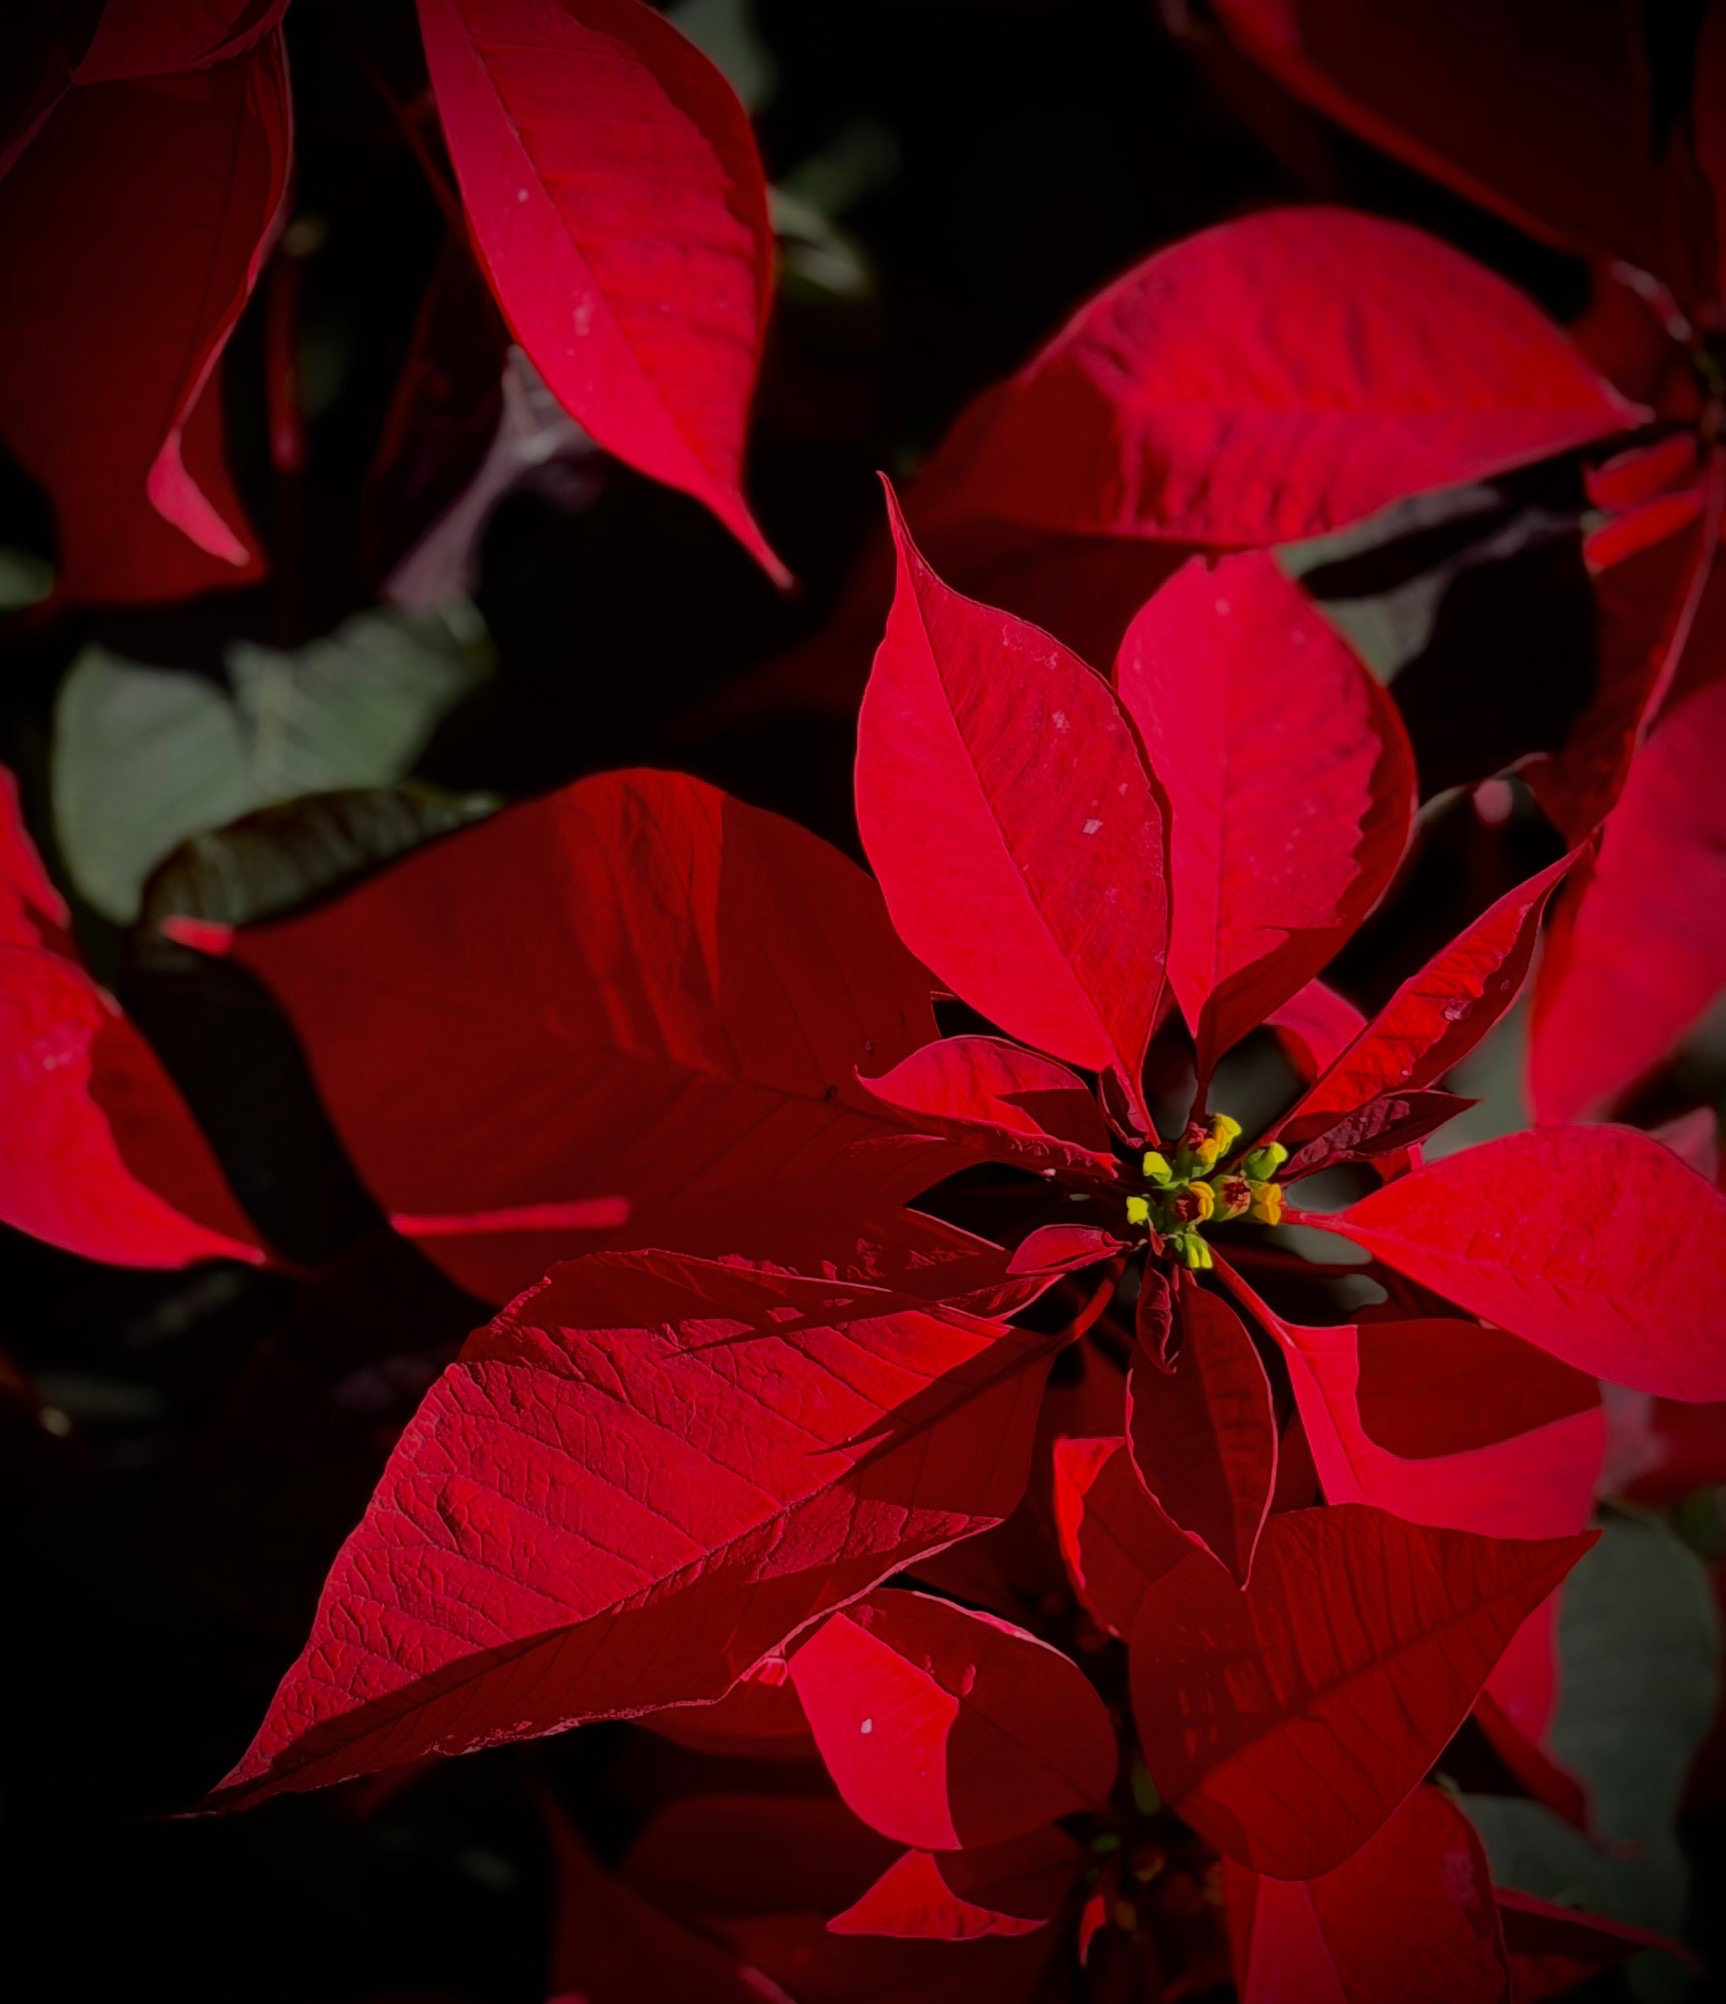
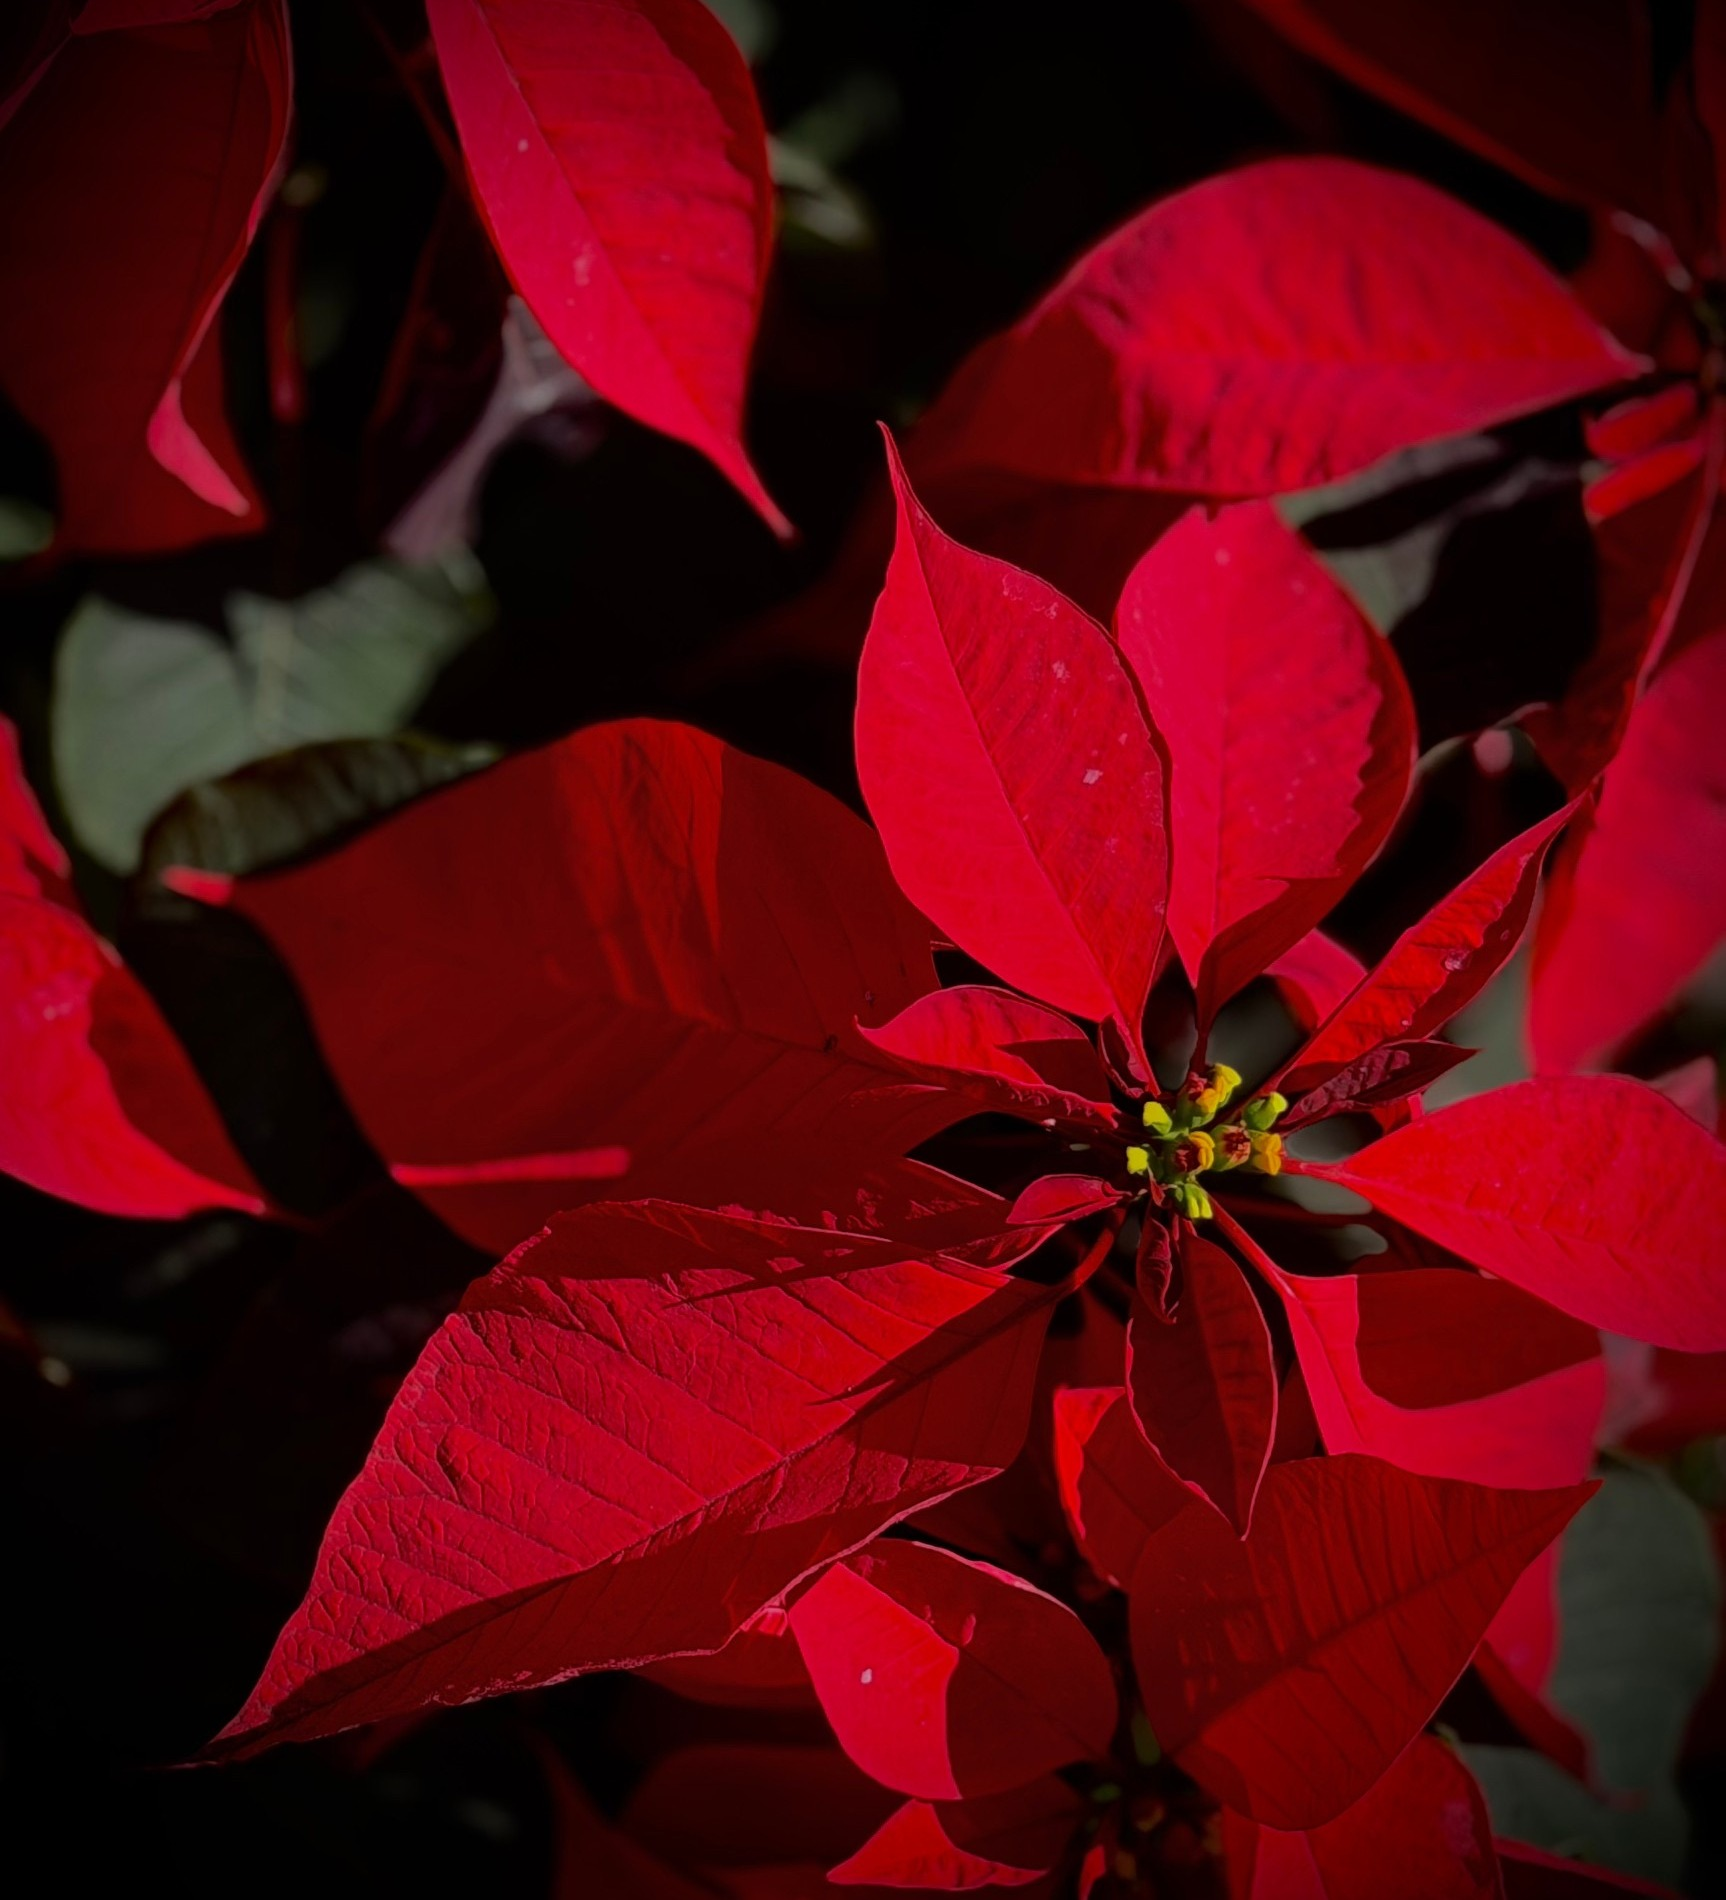
cambios

diff --git a/src/pages/Home.jsx b/src/pages/Home.jsx
@@ -42,10 +42,10 @@ function IconLightning() {
 
 // ── Carrusel ──────────────────────────────────────────────────────────────────
 const HERO_IMAGES = [
-  { src: '/images/hero/0449.jpg', label: 'Eryngium · Holanda',      position: 'center 40%' },
-  { src: '/images/hero/0445.jpg', label: 'Poinsetia · Nacional',    position: 'center 45%' },
-  { src: '/images/hero/0443.jpg', label: 'Alstroemeria · Colombia', position: 'center 30%' },
-  { src: '/images/hero/0440.jpg', label: 'Clavel · Colombia',       position: 'center 18%' },
+  { src: '/images/hero/0449.jpg', label: 'Eryngium · Holanda',      position: 'center center' },
+  { src: '/images/hero/0445.jpg', label: 'Poinsetia · Nacional',    position: 'center center' },
+  { src: '/images/hero/0443.jpg', label: 'Alstroemeria · Colombia', position: 'center center' },
+  { src: '/images/hero/0440.jpg', label: 'Clavel · Colombia',       position: 'center center' },
 ]
 
 function HeroCarousel() {
